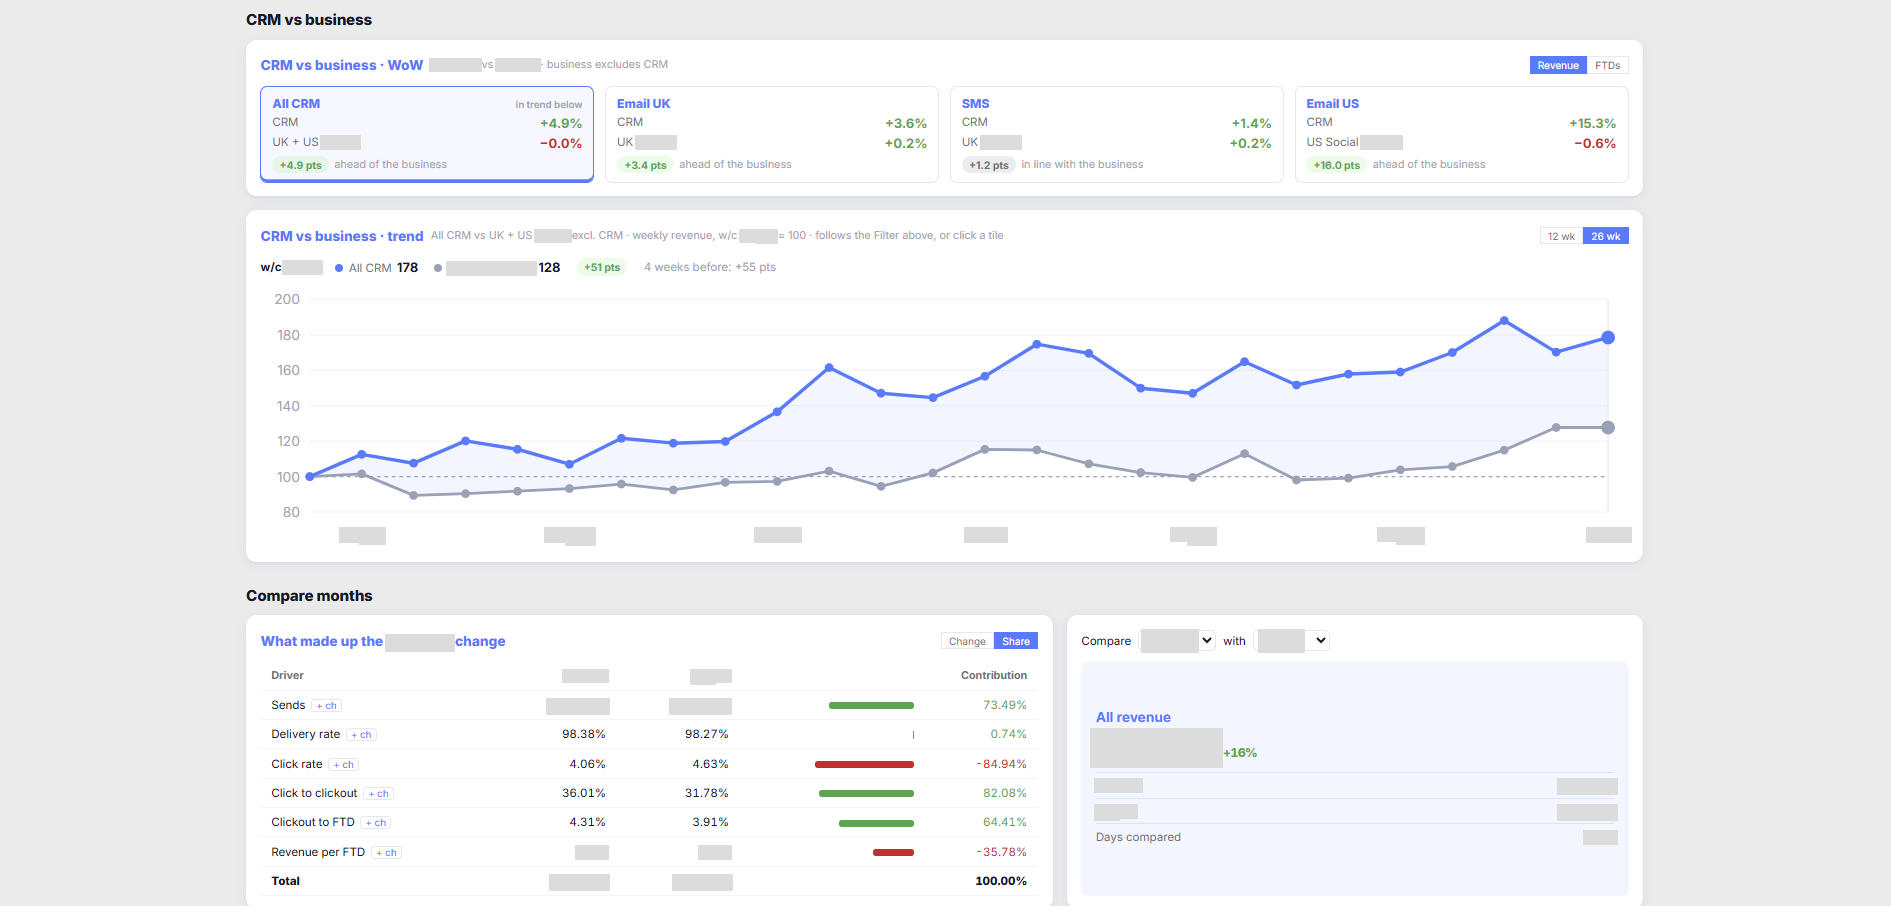
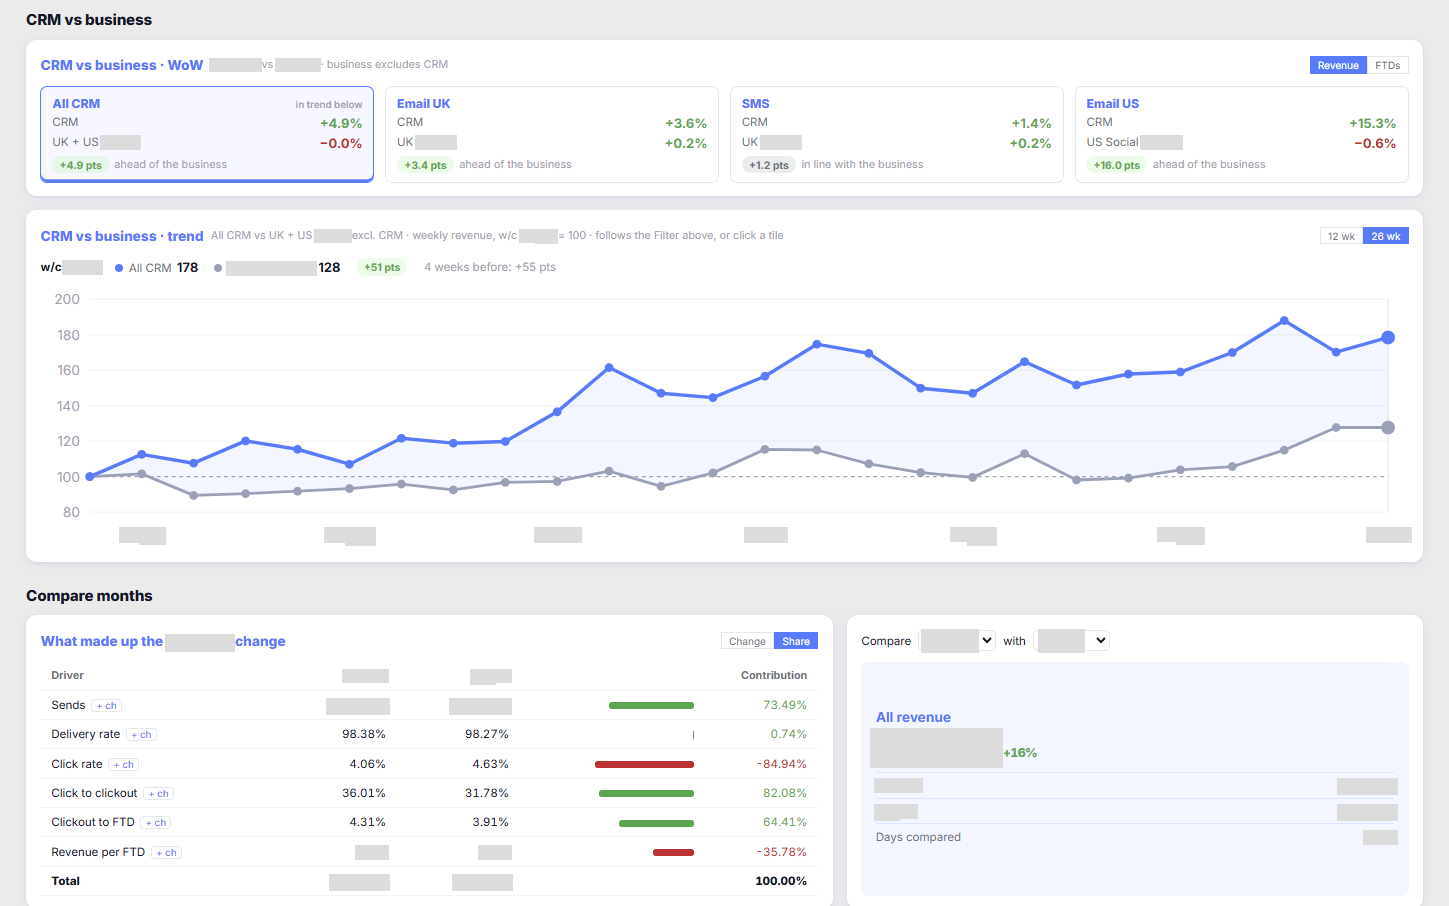
Trim grey side margins from HTML Suite screenshots
Crop the blank page background off each side so the dashboards fill
more of the tile, and use the same 16:9 tiles as the other sections.

Claude-Session: https://claude.ai/code/session_0175kpg6jvgY6GXEK2hNFktP

diff --git a/index.html b/index.html
@@ -27,7 +27,6 @@
 			.box.alt.gallery { overflow: hidden; margin-top: 0.5rem; }
 			.box.alt.gallery .image.fit { margin: 0.75rem 0; }
 			.box.alt.gallery .image.fit img { width: 100%; aspect-ratio: 16 / 9; object-fit: cover; object-position: top left; }
-			.box.alt.gallery.wide .image.fit img { aspect-ratio: 21 / 10; }
 		</style>
 	</head>
 	<body class="is-preload">
@@ -116,19 +115,19 @@
 							<header class="major" style="margin-top: 4.5rem; margin-bottom: 0.5rem; clear: both;">
 								<h1 style="font-size: 1.75rem;">HTML Suite</h1>
 							</header>
-							<div class="box alt gallery wide">
+							<div class="box alt gallery">
 								<div class="row gtr-50 gtr-uniform">
-									<div class="col-4 col-6-small"><span class="image fit"><img src="images/html-suite/weekly-performance-update.png" alt="Weekly Performance Update" loading="lazy" /></span></div>
-									<div class="col-4 col-6-small"><span class="image fit"><img src="images/html-suite/crm-revenue-tracker.png" alt="CRM Revenue Tracker" loading="lazy" /></span></div>
-									<div class="col-4 col-6-small"><span class="image fit"><img src="images/html-suite/revenue-bridge.png" alt="Revenue bridge and merchant movers" loading="lazy" /></span></div>
+									<div class="col-4 col-6-small"><span class="image fit"><img src="images/html-suite/weekly-performance-update.png?v=2" alt="Weekly Performance Update" loading="lazy" /></span></div>
+									<div class="col-4 col-6-small"><span class="image fit"><img src="images/html-suite/crm-revenue-tracker.png?v=2" alt="CRM Revenue Tracker" loading="lazy" /></span></div>
+									<div class="col-4 col-6-small"><span class="image fit"><img src="images/html-suite/revenue-bridge.png?v=2" alt="Revenue bridge and merchant movers" loading="lazy" /></span></div>
 									<!-- Break -->
-									<div class="col-4 col-6-small"><span class="image fit"><img src="images/html-suite/crm-review-lead-age.png" alt="Weekly CRM Review - lead age efficiency" loading="lazy" /></span></div>
-									<div class="col-4 col-6-small"><span class="image fit"><img src="images/html-suite/optimisation-tracker.png" alt="CRM optimisation timeline" loading="lazy" /></span></div>
-									<div class="col-4 col-6-small"><span class="image fit"><img src="images/html-suite/gp-per-lead.png" alt="GP per opted-in lead and funnel drivers" loading="lazy" /></span></div>
+									<div class="col-4 col-6-small"><span class="image fit"><img src="images/html-suite/crm-review-lead-age.png?v=2" alt="Weekly CRM Review - lead age efficiency" loading="lazy" /></span></div>
+									<div class="col-4 col-6-small"><span class="image fit"><img src="images/html-suite/optimisation-tracker.png?v=2" alt="CRM optimisation timeline" loading="lazy" /></span></div>
+									<div class="col-4 col-6-small"><span class="image fit"><img src="images/html-suite/gp-per-lead.png?v=2" alt="GP per opted-in lead and funnel drivers" loading="lazy" /></span></div>
 									<!-- Break -->
-									<div class="col-4 col-6-small"><span class="image fit"><img src="images/html-suite/crm-vs-business.png" alt="CRM vs business trend" loading="lazy" /></span></div>
-									<div class="col-4 col-6-small"><span class="image fit"><img src="images/html-suite/anomaly-tracker.png" alt="CRM Anomaly Tracker" loading="lazy" /></span></div>
-									<div class="col-4 col-6-small"><span class="image fit"><img src="images/html-suite/welcome-journey.png" alt="Adobe vs SFMC Welcome Journey" loading="lazy" /></span></div>
+									<div class="col-4 col-6-small"><span class="image fit"><img src="images/html-suite/crm-vs-business.png?v=2" alt="CRM vs business trend" loading="lazy" /></span></div>
+									<div class="col-4 col-6-small"><span class="image fit"><img src="images/html-suite/anomaly-tracker.png?v=2" alt="CRM Anomaly Tracker" loading="lazy" /></span></div>
+									<div class="col-4 col-6-small"><span class="image fit"><img src="images/html-suite/welcome-journey.png?v=2" alt="Adobe vs SFMC Welcome Journey" loading="lazy" /></span></div>
 								</div>
 							</div>
 							<!-- <article>
